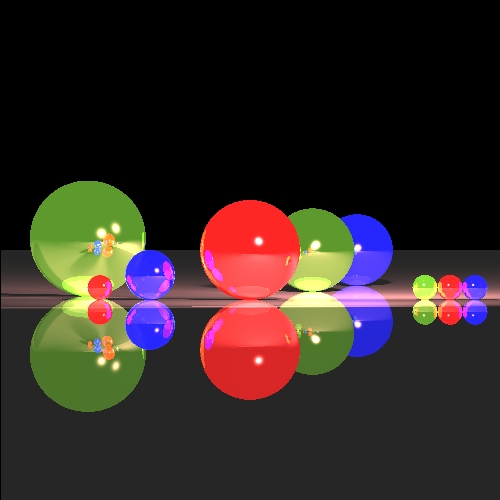
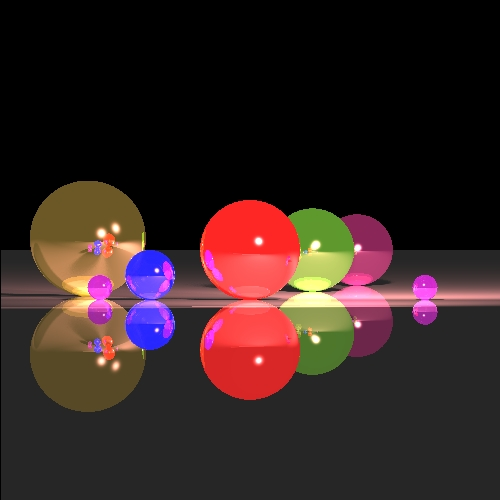
we done

diff --git a/src/unittests/miniProject2.java b/src/unittests/miniProject2.java
@@ -41,27 +41,24 @@ public class miniProject2 {
         scene.setAmbientLight(new AmbientLight(new Color(java.awt.Color.WHITE), 0.15));
         
         Sphere A=new Sphere(new Color(255,0,0), new Material(0.001, 1.5, 100, 0, 0.7), 20, new Point3D(0, 0, 0));
-        Sphere B=new Sphere(new Color(java.awt.Color.BLUE), new Material(0.001, 1.5, 100, 0, 0.7), 20, new Point3D(60, 0, 400));
+        Sphere B=new Sphere(new Color(100,0,50), new Material(0.001, 1.5, 100, 0, 0.7), 20, new Point3D(60, 0, 400));
         Sphere C=new Sphere(new Color(56,115,8), new Material(0.001, 1.5, 100, 0, 0.7), 20, new Point3D(30,0,200));
         
-        Sphere D=  new Sphere(new Color(java.awt.Color.RED), new Material(0.001, 1.5, 100, 0.2, 0.7), 5, new Point3D(80, 15, 0));
-        Sphere E=  new Sphere(new Color(java.awt.Color.BLUE), new Material(0.001, 1.5, 100, 0.2, 0.7), 5, new Point3D(90, 15, 0));
-        Sphere F=  new Sphere(new Color(56,115,8), new Material(0.001, 1.5, 100, 0.2, 0.7), 5, new Point3D(70, 15, 0));
-        
-        Sphere G=  new Sphere(new Color(java.awt.Color.RED), new Material(0.001, 1.5, 100, 0.2, 0.7), 5, new Point3D(-60, 15, 0));
-        Sphere H=  new Sphere(new Color(56,115,8), new Material(0.001, 1.5, 100, 0, 1), 25, new Point3D(-70,-5,80));
+       
+        Sphere G=  new Sphere(new Color(100,0,100), new Material(0.001, 1.5, 100, 0.2, 0.7), 5, new Point3D(-60, 15, 0));
+        Sphere H=  new Sphere(new Color(70,50,0), new Material(0.001, 1.5, 100, 0, 1), 25, new Point3D(-70,-5,80));
         Sphere I=  new Sphere(new Color(java.awt.Color.BLUE), new Material(0.001, 1.5, 100, 0.2, 0.7), 10, new Point3D(-40, 10, 0));
-      //  Cylinder J = new Cylinder(new Color(java.awt.Color.RED),new Material(0.001, 1.5, 100, 0, 1),2, new Ray(new Point3D(80,15,0),new Vector(1,0,0)), 3);
+        Sphere J=  new Sphere(new Color(100,0,100), new Material(0.001, 1.5, 100, 0.2, 0.7), 5, new Point3D(70, 15, 0));
+        
         
         Plane P=  new Plane(new Color(java.awt.Color.BLACK), new Material(0.5, 0.5, 0, 0.5, 0.7), new Point3D(0, 20, 0), new Point3D(4, 20, 0),new Point3D(4,20, 2));
         
-       // Geometries geos5=new Geometries(J);
+        
         Geometries geos2=new Geometries(A,B,C);
-        Geometries geos3=new Geometries(D,E,F);
+        Geometries geos3=new Geometries(J);
         Geometries geos4= new Geometries(G,H,I);
-        Geometries geos1=new Geometries(geos2,geos3,geos4,E,P);
-       // Geometries geos=new Geometries(geos1);
-        scene.addGeometries(geos1);
+        Geometries geos1=new Geometries(geos2,geos3,geos4,P);
+               scene.addGeometries(geos1);
         
       
       scene.addLights(new SpotLight(new Color(700, 400, 400),new Vector(-1, 1, 4),new Point3D(40, -40, -115),  1, 4E-4, 2E-5,10));
@@ -69,7 +66,7 @@ public class miniProject2 {
       scene.addLights(
    		   new PointLight(new Color(700, 400, 400), new Point3D(0, -10,0),1, 0.001, 0.0005,10));
    
-    scene.addLights(new SpotLight(new Color(700, 400, 400), //
+     scene.addLights(new SpotLight(new Color(700, 400, 400), //
 				new Vector(0, 0, 1), new Point3D(60, -50, 0), 1, 4E-5, 2E-7,10));
            
                     
@@ -92,27 +89,25 @@ public class miniProject2 {
         scene.setBackground(Color.BLACK);
         scene.setAmbientLight(new AmbientLight(new Color(java.awt.Color.WHITE), 0.15));
         
+        
         Sphere A=new Sphere(new Color(255,0,0), new Material(0.001, 1.5, 100, 0, 0.7), 20, new Point3D(0, 0, 0));
-        Sphere B=new Sphere(new Color(java.awt.Color.BLUE), new Material(0.001, 1.5, 100, 0, 0.7), 20, new Point3D(60, 0, 400));
+        Sphere B=new Sphere(new Color(100,0,50), new Material(0.001, 1.5, 100, 0, 0.7), 20, new Point3D(60, 0, 400));
         Sphere C=new Sphere(new Color(56,115,8), new Material(0.001, 1.5, 100, 0, 0.7), 20, new Point3D(30,0,200));
         
-        Sphere D=  new Sphere(new Color(java.awt.Color.RED), new Material(0.001, 1.5, 100, 0.2, 0.7), 5, new Point3D(80, 15, 0));
-        Sphere E=  new Sphere(new Color(java.awt.Color.BLUE), new Material(0.001, 1.5, 100, 0.2, 0.7), 5, new Point3D(90, 15, 0));
-        Sphere F=  new Sphere(new Color(56,115,8), new Material(0.001, 1.5, 100, 0.2, 0.7), 5, new Point3D(70, 15, 0));
-        
-        Sphere G=  new Sphere(new Color(java.awt.Color.RED), new Material(0.001, 1.5, 100, 0.2, 0.7), 5, new Point3D(-60, 15, 0));
-        Sphere H=  new Sphere(new Color(56,115,8), new Material(0.001, 1.5, 100, 0, 1), 25, new Point3D(-70,-5,80));
+       
+        Sphere G=  new Sphere(new Color(100,0,100), new Material(0.001, 1.5, 100, 0.2, 0.7), 5, new Point3D(-60, 15, 0));
+        Sphere H=  new Sphere(new Color(70,50,0), new Material(0.001, 1.5, 100, 0, 1), 25, new Point3D(-70,-5,80));
         Sphere I=  new Sphere(new Color(java.awt.Color.BLUE), new Material(0.001, 1.5, 100, 0.2, 0.7), 10, new Point3D(-40, 10, 0));
+        Sphere J=  new Sphere(new Color(100,0,100), new Material(0.001, 1.5, 100, 0.2, 0.7), 5, new Point3D(70, 15, 0));
+        
         
         Plane P=  new Plane(new Color(java.awt.Color.BLACK), new Material(0.5, 0.5, 0, 0.5, 0.7), new Point3D(0, 20, 0), new Point3D(4, 20, 0),new Point3D(4,20, 2));
         
         List<Point> points=new ArrayList<Point>();
 		points.add(new Point(A));
 		points.add(new Point(B));
-		points.add(new Point(C));
-		points.add(new Point(D));
-		points.add(new Point(E));
-		points.add(new Point(F));
+		points.add(new Point(C));		
+		points.add(new Point(J));
 		points.add(new Point(G));
 		points.add(new Point(H));
 		points.add(new Point(I));

diff --git a/src/renderer/Render.java b/src/renderer/Render.java
@@ -40,8 +40,7 @@ public class Render {
 	 * number of rays to the beam from point(soft shadow)
 	 */
 	private static final int NUM_OF_RAYES=80;
-	 private double _supersamplingDensity = 1;
-	 private double SOFT_SHADOW=1;
+	
 	
 	/**
 	 * ctr
@@ -180,9 +179,7 @@ public class Render {
 	public void renderImage()
 	{
 		 Camera camera = scene.getCamera();
-	     Intersectable geometries = scene.getGeometries();
 	     java.awt.Color background = scene.getBackground().getColor();
-	     AmbientLight ambientLight = scene.getAmbientLight();
 	     double distance = scene.getDistance();
 	     
 	     int Nx = image.getNx();
@@ -402,26 +399,7 @@ public class Render {
 	 * @return
 	 */
 	private double transparency(LightSource light, Vector l, Vector n, GeoPoint geopoint) {
-	/*	Vector lightDirection = l.scale(-1); // from point to light source
-		Ray lightRay = new Ray(geopoint.getPoint(), lightDirection);
-		List<GeoPoint> intersections = scene.getGeometries().findIntersections(lightRay);
-		if(geopoint.getGeometry().getMaterial().getkT() != 0)
-			return 1.0;
-		Vector delta = n.scale(n.dotProduct(lightDirection) > 0 ? DELTA : - DELTA);
-		Point3D point = geopoint.point.add(delta);
-		if(intersections == null)
-			return 1.0;
-		double ktr = 1.0;
-		double lightDistance = light.getDistance(geopoint.getPoint());
-		for (GeoPoint geo : intersections) {
-			 if (alignZero( geo.point.distance(point)-lightDistance) <= 0 )
-			 {
-				 ktr *= geopoint.geometry.getMaterial().getkT();
-				 if (ktr < MIN_CALC_COLOR_K) 
-					 return 0.0;
-			 }
-		}
-		return ktr;*/
+	
 		double sum_ktr = 0;
 	        List<Ray> rays = constructRayBeamThroughPoint(light, l, n, geopoint);
 	        for (Ray ray : rays) {
@@ -442,8 +420,29 @@ public class Render {
 	            } else
 	                sum_ktr += 1;
 	        }
-	        return sum_ktr/rays.size();//return the average of all the ktr 
-		
+	        return sum_ktr/rays.size();
+	        //return the average of all the ktr 
+	        /*	Vector lightDirection = l.scale(-1); // from point to light source
+			Ray lightRay = new Ray(geopoint.getPoint(), lightDirection);
+			List<GeoPoint> intersections = scene.getGeometries().findIntersections(lightRay);
+			if(geopoint.getGeometry().getMaterial().getkT() != 0)
+				return 1.0;
+			Vector delta = n.scale(n.dotProduct(lightDirection) > 0 ? DELTA : - DELTA);
+			Point3D point = geopoint.point.add(delta);
+			if(intersections == null)
+				return 1.0;
+			double ktr = 1.0;
+			double lightDistance = light.getDistance(geopoint.getPoint());
+			for (GeoPoint geo : intersections) {
+				 if (alignZero( geo.point.distance(point)-lightDistance) <= 0 )
+				 {
+					 ktr *= geopoint.geometry.getMaterial().getkT();
+					 if (ktr < MIN_CALC_COLOR_K) 
+						 return 0.0;
+				 }
+			}
+			return ktr;*/
+			
 	}
 	
 	/**

diff --git a/src/unittests/ReflectionRefractionTests.java b/src/unittests/ReflectionRefractionTests.java
@@ -18,7 +18,6 @@ import scene.Scene;
  * Tests for reflection and transparency functionality, test for partial shadows
  * (with transparency)
  * 
- * @author dzilb
  *
  */
 public class ReflectionRefractionTests {
@@ -41,7 +40,7 @@ public class ReflectionRefractionTests {
 				new Sphere(new Color(java.awt.Color.RED), new Material(0.5, 0.5, 100), 25, new Point3D(0, 0, 50)));
 
 		scene.addLights(new SpotLight(new Color(1000, 600, 0), new Vector(-1, 1, 2), new Point3D(-100, 100, -500), 1,
-				0.0004, 0.0000006));
+				0.0004, 0.0000006,10));
 
 		ImageWriter imageWriter = new ImageWriter("twoSpheres", 150, 150, 500, 500);
 		Render render = new Render(imageWriter, scene);
@@ -53,7 +52,7 @@ public class ReflectionRefractionTests {
 	/**
 	 * Produce a picture of a sphere lighted by a spot light
 	 */
-	@Test
+/*	@Test
 	public void twoSpheresOnMirrors() {
 		Scene scene = new Scene("Test scene");
 		scene.setCamera(new Camera(new Point3D(0, 0, -10000), new Vector(0, 0, 1), new Vector(0, -1, 0)));
@@ -70,14 +69,14 @@ public class ReflectionRefractionTests {
 						new Point3D(-1500, -1500, 1500), new Point3D(-1500, 1500, 2000)));
 
 		scene.addLights(new SpotLight(new Color(1020, 400, 400),  new Vector(-1, 1, 4), 
-				   new Point3D(-750, 750, 150), 1, 0.00001, 0.000005));
+				   new Point3D(-750, 750, 150), 1, 0.00001, 0.000005,10));
 
 		ImageWriter imageWriter = new ImageWriter("twoSpheresMirrored", 2500, 2500, 500, 500);
 		Render render = new Render(imageWriter, scene);
 
 		render.renderImage();
 		render.writeToImage();
-	}
+	}*/
 	
 	/**
 	 * Produce a picture of a two triangles lighted by a spot light with a partially transparent Sphere
@@ -100,7 +99,7 @@ public class ReflectionRefractionTests {
 						30, new Point3D(60, -50, 50)));
 
 		scene.addLights(new SpotLight(new Color(700, 400, 400), //
-				new Vector(0, 0, 1), new Point3D(60, -50, 0), 1, 4E-5, 2E-7));
+				new Vector(0, 0, 1), new Point3D(60, -50, 0), 1, 4E-5, 2E-7,10));
 
 		ImageWriter imageWriter = new ImageWriter("shadow with transparency", 200, 200, 600, 600);
 		Render render = new Render(imageWriter, scene);
@@ -128,7 +127,7 @@ public class ReflectionRefractionTests {
 		
 
 		scene.addLights(new SpotLight(new Color(700, 400, 400), //
-				new Vector(0, 0, 1), new Point3D(60, -50, 0), 1, 4E-5, 2E-7));
+				new Vector(0, 0, 1), new Point3D(60, -50, 0), 1, 4E-5, 2E-7,10));
 
 		ImageWriter imageWriter = new ImageWriter(" allTheNewEfect", 200, 200, 600, 600);
 		Render render = new Render(imageWriter, scene);

diff --git a/src/k_means/Point.java b/src/k_means/Point.java
@@ -6,10 +6,7 @@ import java.util.Random;
 import geometries.*;
 import primitives.*;
 
-/**
- * @author rinat
- *
- */
+
 public class Point {
 	private Geometry geometry;
     private Point3D PositionPoint;
@@ -87,15 +84,7 @@ public class Point {
         double z = min + (max - min) * r.nextDouble();
         return new Point(new Sphere(1,new Point3D(x,y,z)));
     }
-    /*
-    protected static List createRandomPoints(int min, int max, int number) {
-        List points = new ArrayList(number);
-        for(int i = 0; i < number; i++) {
-            points.add(createRandomPoint(min,max));
-        }
-        return points;
-    }*/
-
+  
     public String toString() {
         return "("+this.PositionPoint.get_x()+","+this.PositionPoint.get_y()+","+this.PositionPoint.get_z()+")";
     }

diff --git a/src/k_means/Kmeans.java b/src/k_means/Kmeans.java
@@ -6,10 +6,7 @@ import java.util.Random;
 
 import primitives.Point3D;
 
-/**
- * @author rinat
- *
- */
+
 
 public class Kmeans {
 
@@ -26,11 +23,7 @@ public class Kmeans {
         this.points = new ArrayList<Point>();
         this.clusters = new ArrayList<Cluster>();        
     }
-   /* public KMeans(List<Point> points) {
-        this.points = points;
-        this.clusters = new ArrayList<Point>();        
-    }*/
-
+   
     
     /**
 	 * @return the clusters
@@ -51,10 +44,7 @@ public class Kmeans {
             Point centroid = Point.createRandomPoint(-100,100);
             cluster.setCentroid(centroid);
             this.clusters.add(cluster);
-        }
-
-        //Print Initial state
-        //plotClusters();
+        }        
     }
 
     private void plotClusters() {

diff --git a/src/elements/SpotLight.java b/src/elements/SpotLight.java
@@ -21,6 +21,10 @@ public class SpotLight extends PointLight {
 		_direction=new Vector(v).normalize();
 		// TODO Auto-generated constructor stub
 	}
+	
+	public SpotLight(Color color,Vector v,Point3D _position,double _kC, double _kL, double _kQ) {
+		super(color, _position, _kC, _kL, _kQ);
+	}
 	/**
      * @return spotlight intensity
      */

diff --git a/src/geometries/Intersectable.java b/src/geometries/Intersectable.java
@@ -13,7 +13,7 @@ public interface Intersectable
 	 * @param ray
 	 * @return a point3D list of itersections with a given ray
 	 */
-	public List<GeoPoint> findIntersections (Ray ray);
+	 public List<GeoPoint> findIntersections (Ray ray);
 	 boolean IsIntersectionBox(Ray ray);
 	 Box get_box() ;
 	
